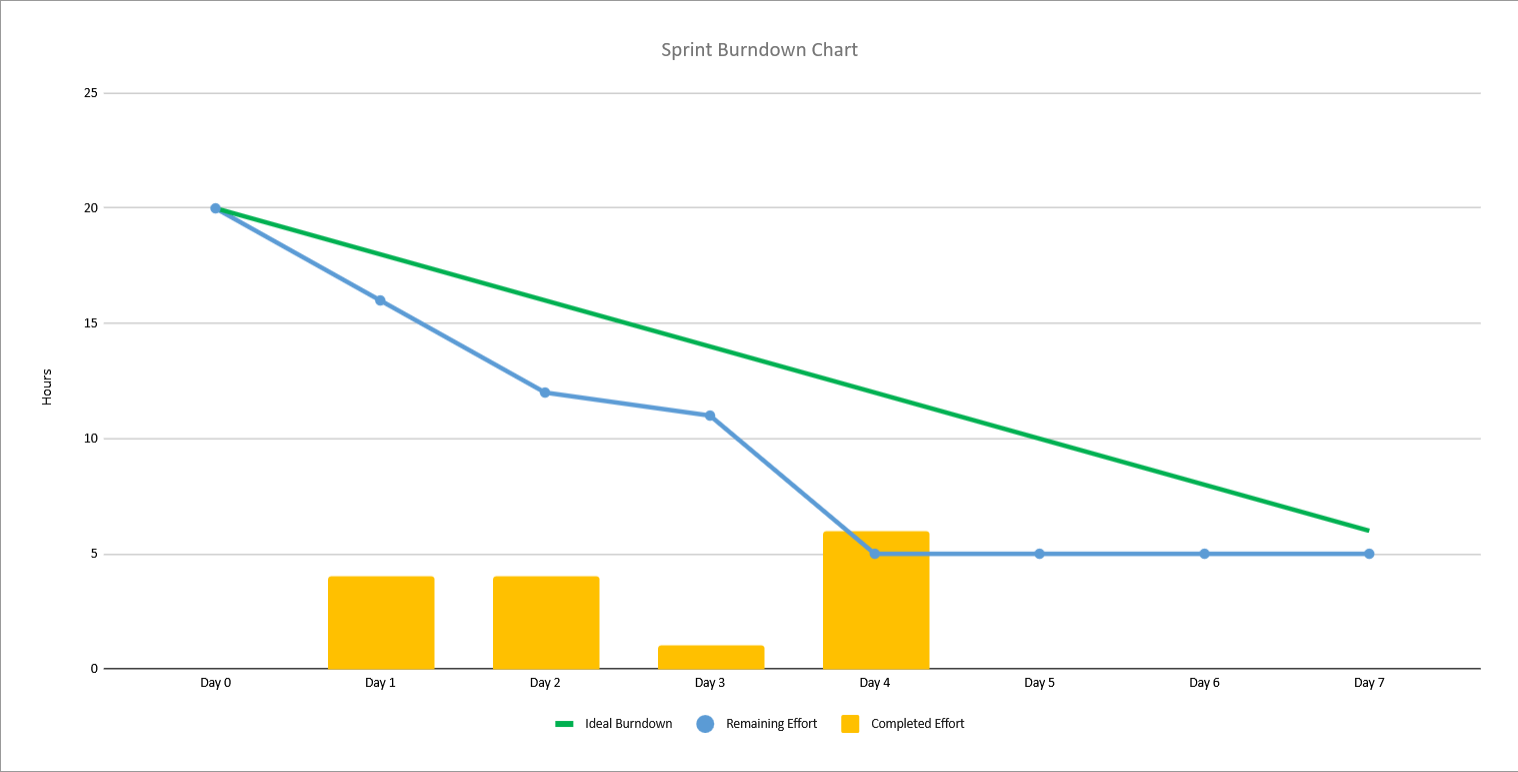
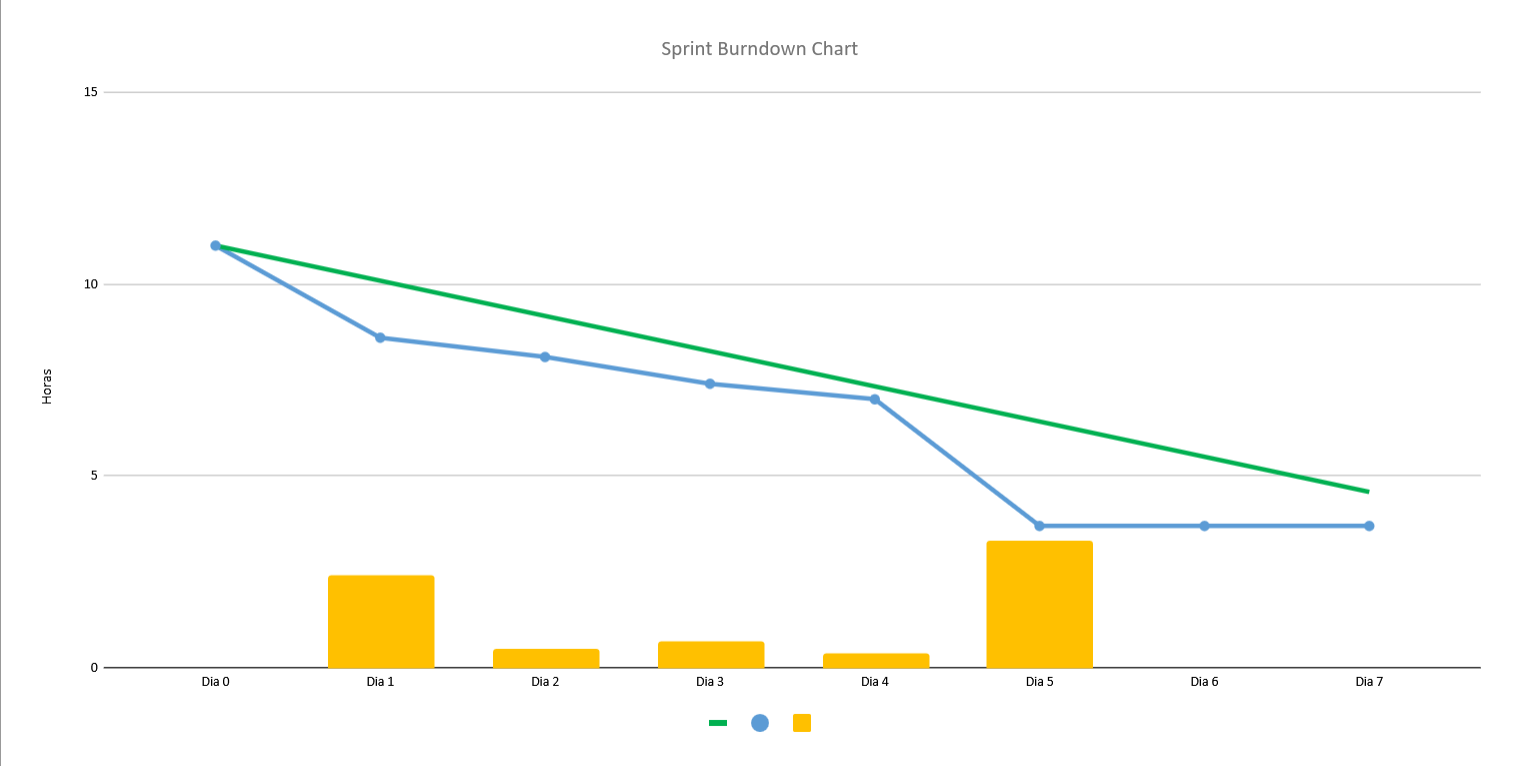
Edits in sprint2

diff --git a/SE202526/Management/Sprint2/README.md b/SE202526/Management/Sprint2/README.md
@@ -6,37 +6,40 @@
 
 ## Scrum master
 
-Student name and number
+Carolina Ferreira - 67804
 
 ## Management info
 ### Sprint Planning Meeting: 
-*(This meeting is held at the beginning of the sprint to define the primary purpose and goal of the sprint. The Scrum team, comprising the product manager, development team, and Scrum Master, selects and commits to a set of product backlog items (PBIs) referred to as the sprint backlog. You can use this section to log what happened during this meeting. A few bullet points should be enough.)*
+- Choose the current Scrum Master
+- Define what to do during the following week
+- Brainstorm on ways to improve team work
 
 ### Sprint Review Meeting: 
-*(Held at the end of the sprint, this meeting is attended by all stakeholders to demo the completed work and validate if the sprint goal has been met.)*
+- Talk about ways to implement the wanted features
 
-### Sprint Retrospective Meeting: 
-*(This meeting happens after the sprint review and before the next sprint planning meeting. The team reflects on what went well, what needs improvement, and how to enhance their processes for future sprints.)*
+### Sprint Retrospective Meeting:
+- Due to the lack of time, there were undone tasks 
+- Comunnication needs to improve and so do the means
 
 ## Relevant resources
 
 ### Scrum Board at the beginning of the sprint
 
-Please add the scrumboard picture here.
+![sprint2_start_scrum_board.png](sprint2_start_scrum.png)
 
 ### Scrum Board in the middle of the sprint
 
-Please add the scrumboard picture here.
+![sprint2_mid_scrum_board.png](sprint2_mid_scrum.png)
 
 ### Scrum Board at the end of the sprint
 
-Please add the scrumboard picture here.
+![sprint2_end_scrum_board.png](sprint2_end_scrum.png)
 
 ### Burndown Chart for the sprint
 
-Please add the burndown chart here.
+![sprint2_burndown_chart.png](sprint2_burndown_chart.png)
 
 ### Gantt Chart
 
-Please add the Gantt chart here.
+![sprint2_end_gantt.png](sprint2_end_gantt.png)
 
